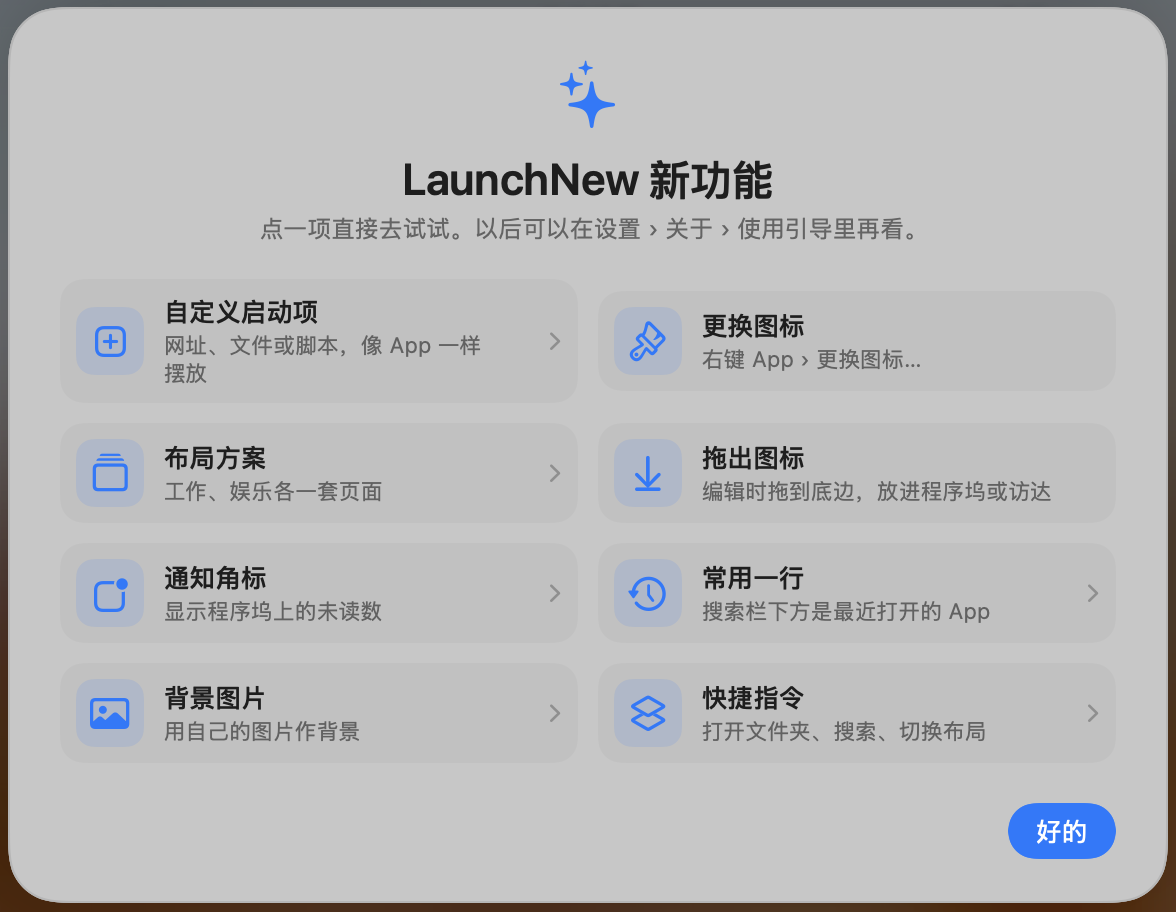
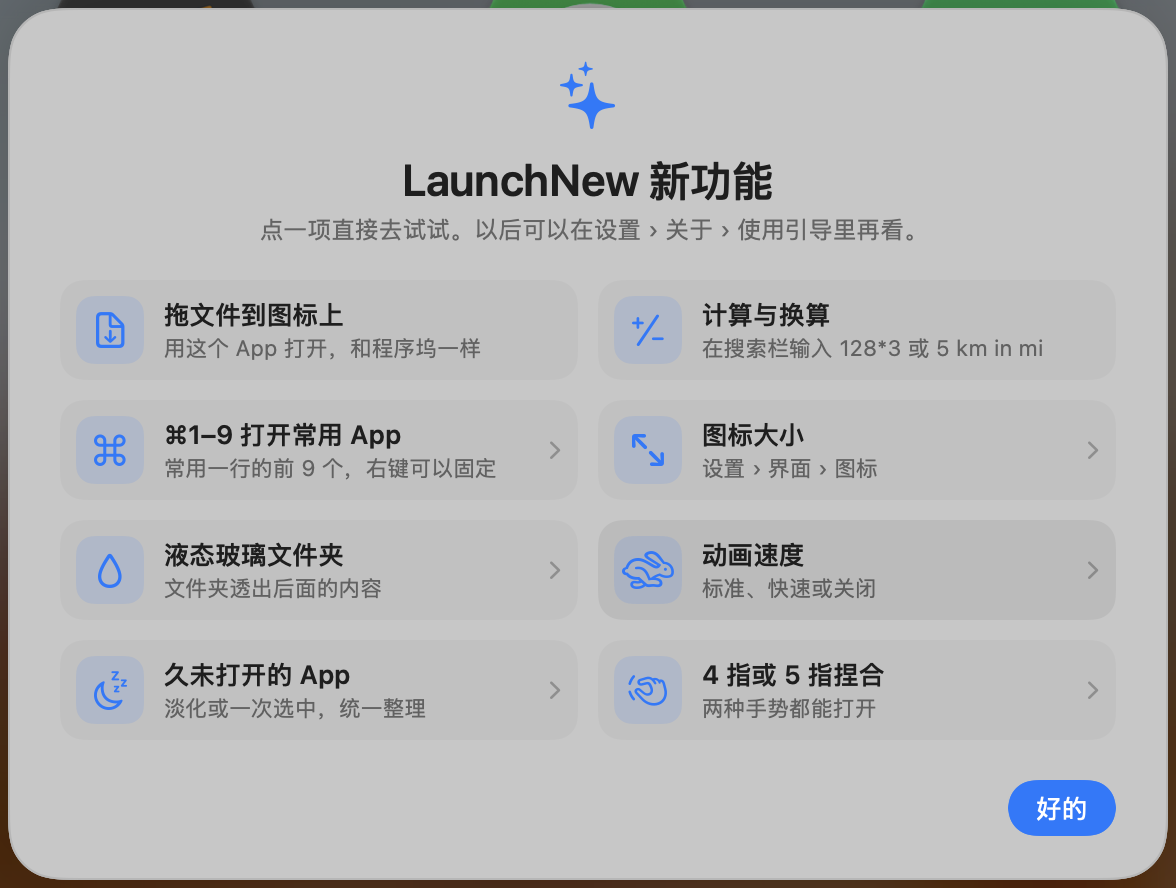
What's new card lists this release's features; the walkthrough mentions search math

diff --git a/Sources/LaunchNew/Discovery.swift b/Sources/LaunchNew/Discovery.swift
@@ -7,7 +7,7 @@ import SwiftUI
 /// The "新功能" card, shown once the next time the launcher opens after an upgrade.
 enum WhatsNew {
     /// Bump when `features` changes; bug-fix releases keep it, so the card doesn't come back.
-    static let edition = 1
+    static let edition = 2
     private static let key = "whatsNewSeen"
 
     struct Feature: Identifiable {
@@ -21,32 +21,28 @@ enum WhatsNew {
 
     @MainActor static var features: [Feature] {
         [
-            Feature(symbol: "plus.app", title: String(localized: "自定义启动项"),
-                    detail: String(localized: "网址、文件或脚本，像 App 一样摆放"),
-                    action: { $0.finishWhatsNew(); $0.sheet = .editCustom(nil) }),
-            Feature(symbol: "paintbrush", title: String(localized: "更换图标"),
-                    detail: String(localized: "右键 App › 更换图标…")),
-            Feature(symbol: "rectangle.stack", title: String(localized: "布局方案"),
-                    detail: String(localized: "工作、娱乐各一套页面"),
-                    action: { $0.finishWhatsNew(); $0.openSettings(.advanced) }),
-            Feature(symbol: "arrow.down.to.line", title: String(localized: "拖出图标"),
-                    detail: String(localized: "编辑时拖到底边，放进程序坞或访达")),
-            Feature(symbol: "app.badge", title: String(localized: "通知角标"),
-                    detail: String(localized: "显示程序坞上的未读数"),
+            Feature(symbol: "arrow.down.doc", title: String(localized: "拖文件到图标上"),
+                    detail: String(localized: "用这个 App 打开，和程序坞一样")),
+            Feature(symbol: "plus.forwardslash.minus", title: String(localized: "计算与换算"),
+                    detail: String(localized: "在搜索栏输入 128*3 或 5 km in mi")),
+            Feature(symbol: "command", title: String(localized: "⌘1–9 打开常用 App"),
+                    detail: String(localized: "常用一行的前 9 个，右键可以固定"),
                     action: { $0.finishWhatsNew(); $0.openSettings(.appearance) }),
-            Feature(symbol: "clock.arrow.circlepath", title: String(localized: "常用一行"),
-                    detail: String(localized: "搜索栏下方是最近打开的 App"),
+            Feature(symbol: "arrow.up.left.and.arrow.down.right", title: String(localized: "图标大小"),
+                    detail: String(localized: "设置 › 界面 › 图标"),
                     action: { $0.finishWhatsNew(); $0.openSettings(.appearance) }),
-            Feature(symbol: "photo", title: String(localized: "背景图片"),
-                    detail: String(localized: "用自己的图片作背景"),
+            Feature(symbol: "drop", title: String(localized: "液态玻璃文件夹"),
+                    detail: String(localized: "文件夹透出后面的内容"),
                     action: { $0.finishWhatsNew(); $0.openSettings(.appearance) }),
-            Feature(symbol: "square.2.layers.3d", title: String(localized: "快捷指令"),
-                    detail: String(localized: "打开文件夹、搜索、切换布局"),
-                    action: { model in
-                        model.finishWhatsNew()
-                        model.close()
-                        if let url = URL(string: "shortcuts://") { NSWorkspace.shared.open(url) }
-                    }),
+            Feature(symbol: "hare", title: String(localized: "动画速度"),
+                    detail: String(localized: "标准、快速或关闭"),
+                    action: { $0.finishWhatsNew(); $0.openSettings(.appearance) }),
+            Feature(symbol: "moon.zzz", title: String(localized: "久未打开的 App"),
+                    detail: String(localized: "淡化或一次选中，统一整理"),
+                    action: { $0.finishWhatsNew(); $0.openSettings(.appearance) }),
+            Feature(symbol: "hand.pinch", title: String(localized: "4 指或 5 指捏合"),
+                    detail: String(localized: "两种手势都能打开"),
+                    action: { $0.finishWhatsNew(); $0.openSettings(.general) }),
         ]
     }
 

diff --git a/Sources/LaunchNew/Guide.swift b/Sources/LaunchNew/Guide.swift
@@ -106,7 +106,7 @@ struct GuideView: View {
         case 1: String(localized: "按 \(settings.hotKey.display) 打开。也可以在设置里打开触控板捏合（拇指和三指）、F4 键或触发角。")
         case 2: String(localized: "把一个 App 拖到另一个上面就会建立文件夹。拖到屏幕边缘可以翻到别的页面。")
         case 3: String(localized: "长按图标或按住 ⌥ 进入编辑模式，按住 ⌘ 点击可以多选。右键可以重命名、加标签、更换图标、移动或卸载。")
-        case 4: String(localized: "直接打字即可搜索，支持拼音和首字母，比如输入「wx」找到微信。输入 # 按标签筛选。")
+        case 4: String(localized: "直接打字即可搜索，支持拼音和首字母，比如输入「wx」找到微信。输入 # 按标签筛选，输入 128*3 或 5 km in mi 直接算出结果。")
         case 5: String(localized: "⋯ 菜单里可以新建启动项（网址、文件或脚本），也能切换多套布局方案。编辑时把图标拖到屏幕底边，可以放进程序坞或访达。")
         default: String(localized: "右键 App 选择「隐藏」，它就不会出现在网格里。最后一个分页圆点后面藏着入口，验证后才能看到。入口和暗号可在设置 › App 中调整。")
         }
